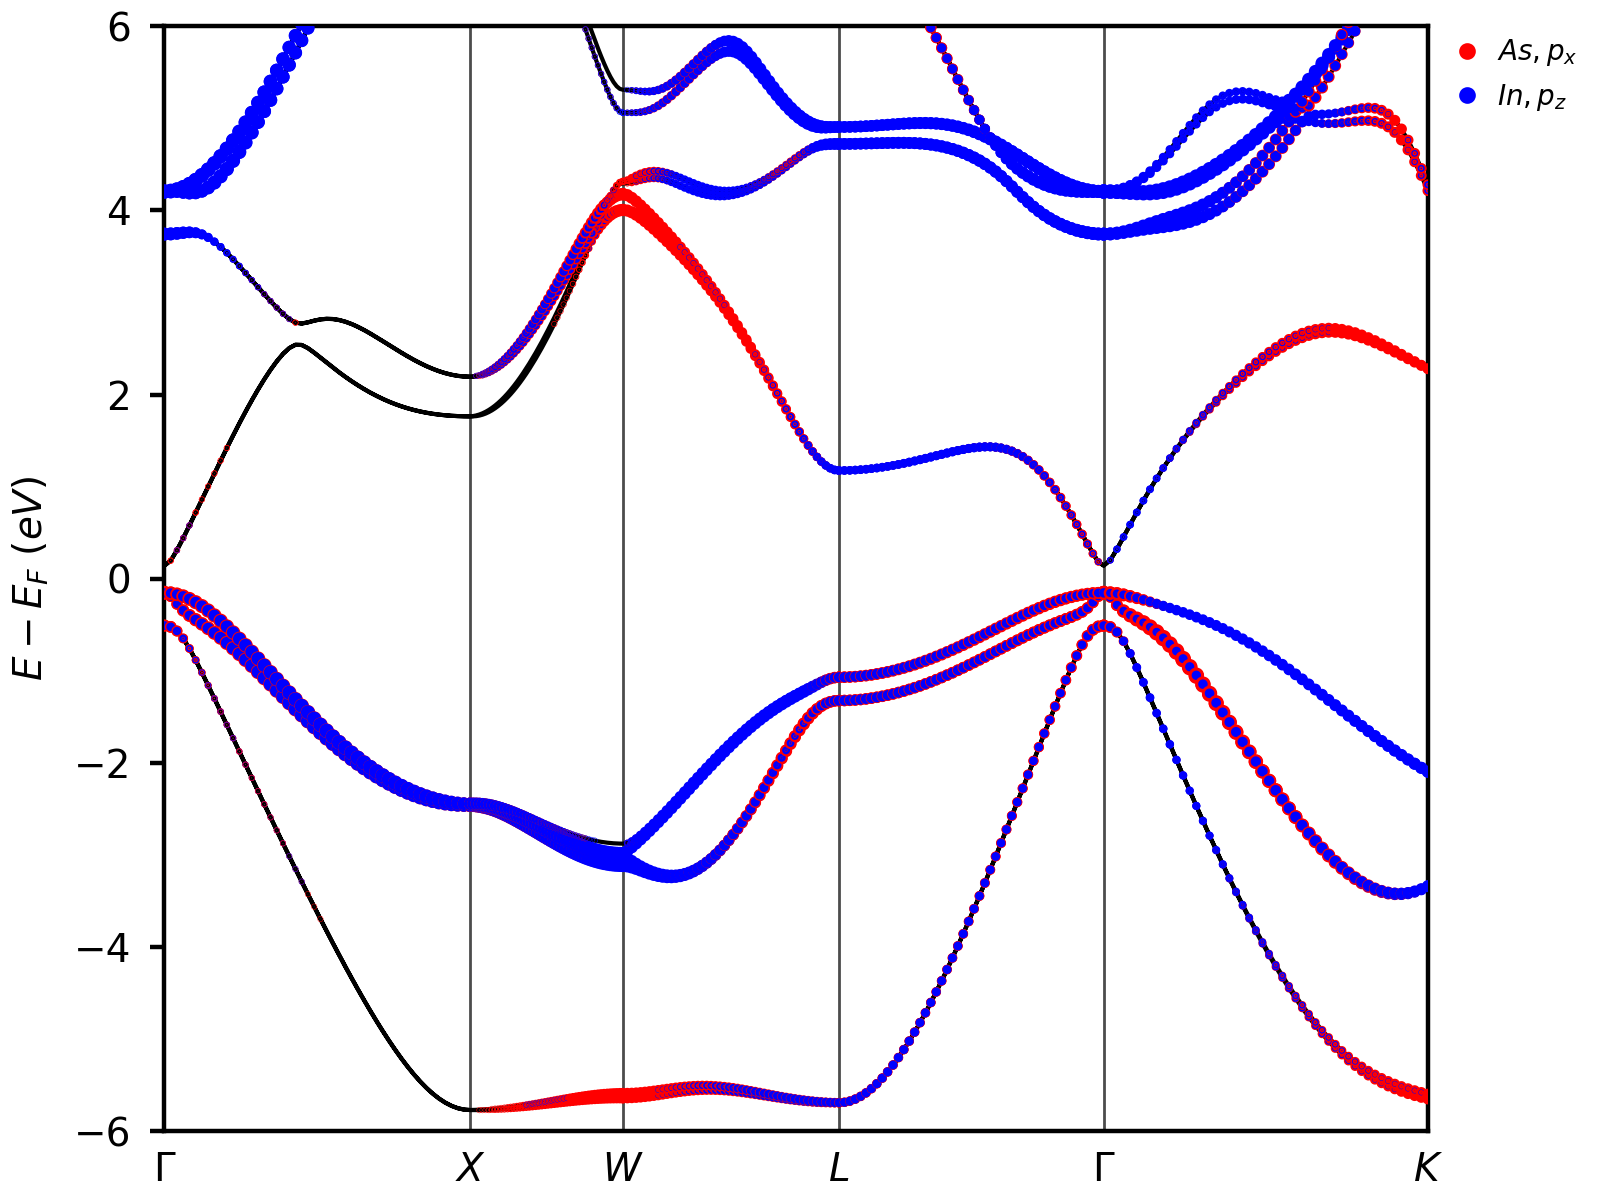
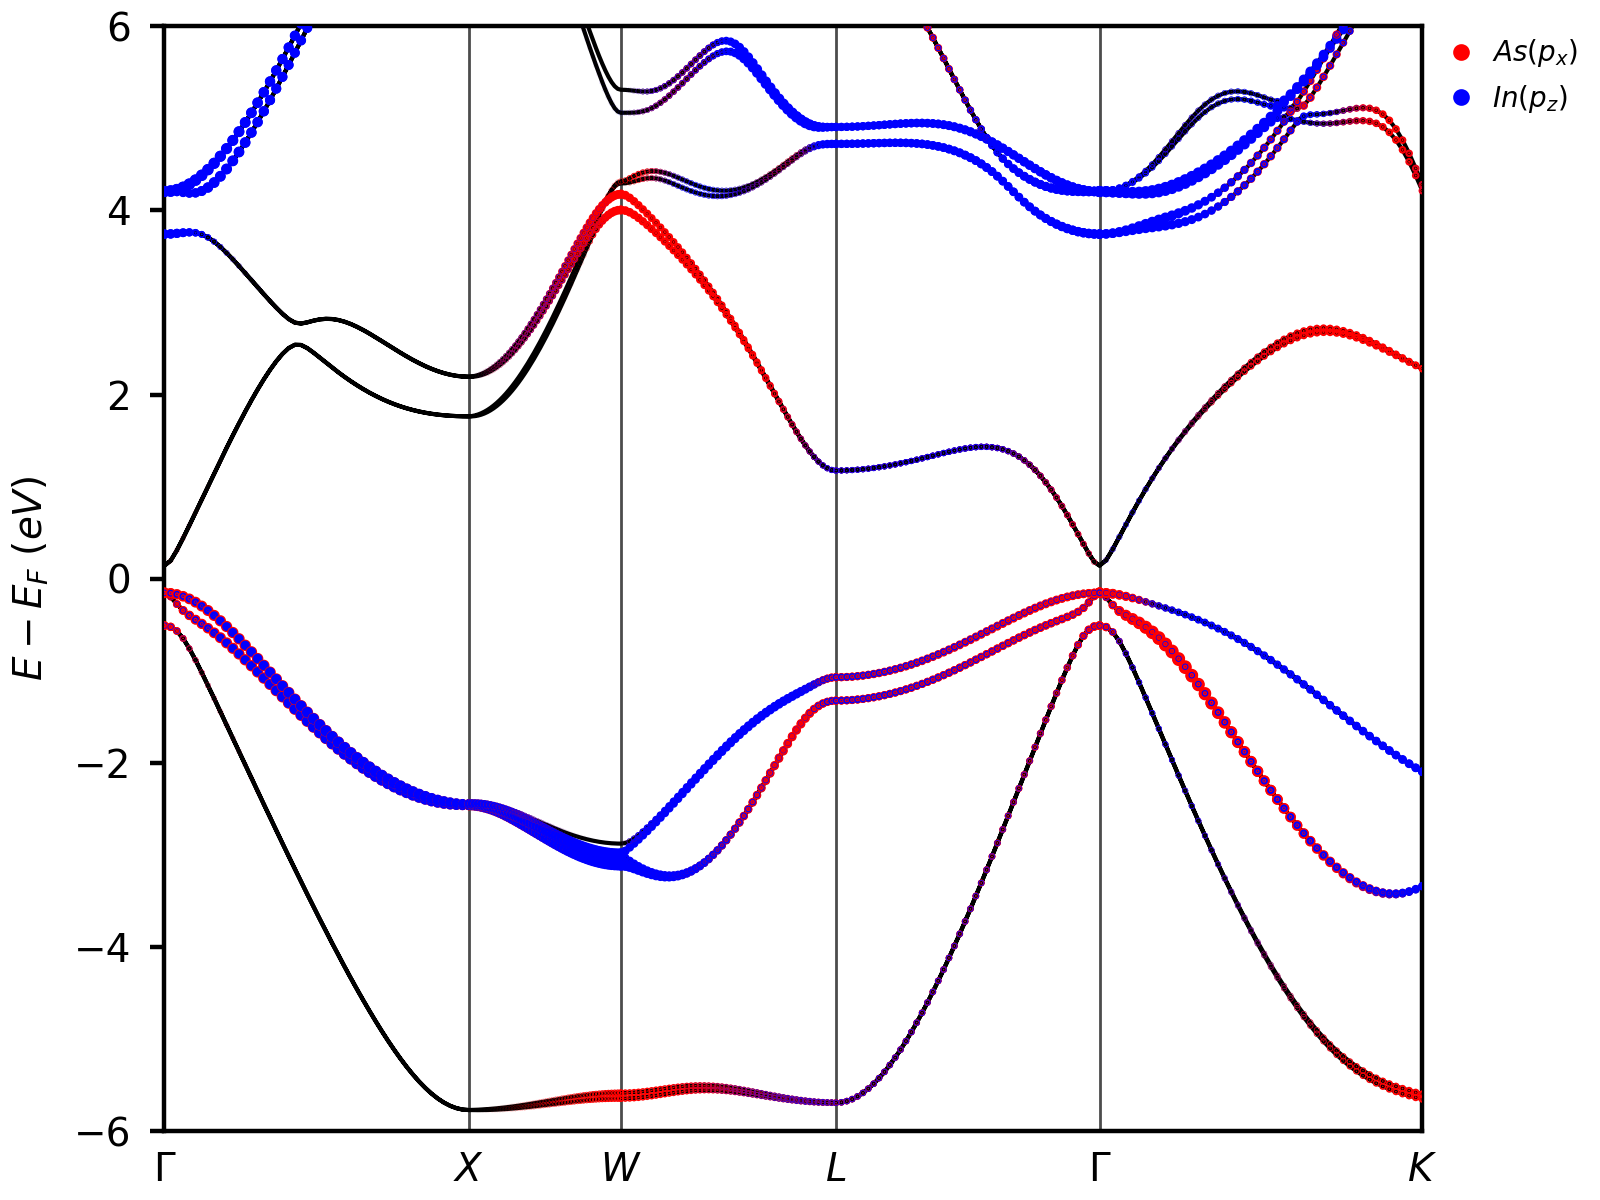
Fixed loading and saving bands for spin polarized calculations with only one atom

diff --git a/vaspvis/band.py b/vaspvis/band.py
@@ -82,6 +82,15 @@ class Band:
         else:
             self.lsorbit = False
 
+        if 'ISPIN' in self.incar:
+            if self.incar['ISPIN'] == 2:
+                self.ispin = True
+            else:
+                self.ispin = False
+        else:
+            self.ispin = False
+
+
         self.kpoints_file = Kpoints.from_file(os.path.join(folder, 'KPOINTS'))
 
         self.wavecar = os.path.join(folder, 'WAVECAR')
@@ -162,16 +171,32 @@ class Band:
                 the eigenvalues for each band
         """
 
-        spin = self.spin_dict[self.spin]
+        if self.spin == 'up':
+            spin = 0
+        if self.spin == 'down':
+            spin = 1
 
         if self.pre_loaded_bands:
             with open(os.path.join(self.folder, 'eigenvalues.npy'), 'rb') as eigenvals:
                 band_data = np.load(eigenvals)
 
-            eigenvalues = band_data[:,:,0]
-            kpoints = band_data[0,:,1:]
+            if self.ispin and not self.lsorbit:
+                eigenvalues = band_data[:,:,:2]
+                kpoints = band_data[0,:,2:]
+            else:
+                eigenvalues = band_data[:,:,0]
+                kpoints = band_data[0,:,1:]
         else:
-            eigenvalues = np.transpose(self.eigenval.eigenvalues[spin][:,:,0]) - self.efermi
+            if len(self.eigenval.eigenvalues.keys()) > 1:
+                eigenvalues_up = np.transpose(self.eigenval.eigenvalues[Spin.up][:,:,0]) - self.efermi
+                eigenvalues_down = np.transpose(self.eigenval.eigenvalues[Spin.down][:,:,0]) - self.efermi
+                eigenvalues = np.concatenate(
+                    [eigenvalues_up[:,:,np.newaxis], eigenvalues_down[:,:,np.newaxis]],
+                    axis=2
+                )
+            else:
+                eigenvalues = np.transpose(self.eigenval.eigenvalues[Spin.up][:,:,0]) - self.efermi
+
             kpoints = np.array(self.eigenval.kpoints)
 
             if self.hse:
@@ -180,12 +205,24 @@ class Band:
                 eigenvalues = eigenvalues[:,zero_weight]
                 kpoints = kpoints[zero_weight]
 
-            band_data = np.append(
-                eigenvalues[:,:,np.newaxis],
-                np.tile(kpoints, (eigenvalues.shape[0],1,1)),
-                axis=2,
-            )
+            if len(self.eigenval.eigenvalues.keys()) > 1:
+                band_data = np.append(
+                    eigenvalues,
+                    np.tile(kpoints, (eigenvalues.shape[0],1,1)),
+                    axis=2,
+                )
+            else:
+                band_data = np.append(
+                    eigenvalues[:,:,np.newaxis],
+                    np.tile(kpoints, (eigenvalues.shape[0],1,1)),
+                    axis=2,
+                )
+
             np.save(os.path.join(self.folder, 'eigenvalues.npy'), band_data)
+
+        if len(self.eigenval.eigenvalues.keys()) > 1:
+            eigenvalues = eigenvalues[:,:,spin]
+
 
         return eigenvalues, kpoints
 
@@ -248,12 +285,24 @@ class Band:
         else:
             parser = ProcarParser()
             parser.readFile(os.path.join(self.folder, 'PROCAR_repaired'))
-            projected_eigenvalues = np.transpose(parser.spd[:,:,spin,:-1, 1:-1], axes=(1,0,2,3))
-            projected_eigenvalues = projected_eigenvalues 
+            if self.ispin and not self.lsorbit and np.sum(self.poscar.natoms) == 1:
+                shape = int(parser.spd.shape[1] / 2)
+                projected_eigenvalues_up = np.transpose(parser.spd[:,:shape,0,:,1:-1], axes=(1,0,2,3))
+                projected_eigenvalues_down = np.transpose(parser.spd[:,shape:,0,:,1:-1], axes=(1,0,2,3))
+                projected_eigenvalues = np.concatenate(
+                    [projected_eigenvalues_up[:,:,:,:,np.newaxis], projected_eigenvalues_down[:,:,:,:,np.newaxis]],
+                    axis=4
+                )
+                projected_eigenvalues = np.transpose(projected_eigenvalues, axes=(0,1,4,2,3))
+            else:
+                projected_eigenvalues = np.transpose(parser.spd[:,:,:,:-1, 1:-1], axes=(1,0,2,3,4))
+
             np.save(os.path.join(self.folder, 'projected_eigenvalues.npy'), projected_eigenvalues)
 
+
+        projected_eigenvalues = projected_eigenvalues[:,:,spin,:,:]
+
         if self.hse:
-            print(projected_eigenvalues.shape)
             kpoint_weights = np.array(self.eigenval.kpoints_weights)
             zero_weight = np.where(kpoint_weights == 0)[0]
             projected_eigenvalues = projected_eigenvalues[:,zero_weight]

diff --git a/vaspvis/standard.py b/vaspvis/standard.py
@@ -968,7 +968,7 @@ def band_plain_spin_polarized(
     down_color='red',
     linewidth=1.25,
     up_linestyle='-',
-    down_linestyle='-',
+    down_linestyle=':',
     figsize=(4, 3),
     erange=[-6, 6],
     kpath=None,
@@ -5355,7 +5355,7 @@ def band_dos_plain_spin_polarized(
     down_color='red',
     linewidth=1.25,
     up_linestyle='-',
-    down_linestyle='--',
+    down_linestyle=':',
     figsize=(6, 3),
     width_ratios=[7, 3],
     erange=[-6, 6],
@@ -7610,10 +7610,15 @@ def dos_layers(
 
 
 def _main():
-    folder = '../../vaspvis_data/dos_InAs'
-    dos_spd(
-        folder=folder,
-    )
+    dos_folder = '../../vaspvis_data/Fe-sp/dos'
+    band_folder_sp = '../../vaspvis_data/Fe-sp/band'
+    band_folder = '../../vaspvis_data/band_InAs'
+    band_spd(folder=band_folder)
+    #  band_dos_spd_spin_polarized(
+        #  band_folder=band_folder_sp,
+        #  dos_folder=dos_folder,
+        #  display_order='all',
+    #  )
 
 
 if __name__ == "__main__":

diff --git a/img/example.py b/img/example.py
@@ -143,6 +143,16 @@ standard.dos_atom_orbitals(
     energyaxis='x',
 )
 
+# ==================================================
+# ---------- Atom SPD Dos Structure ------------
+# ==================================================
+
+standard.dos_atom_spd(
+    folder=dos_folder,
+    atom_spd_dict={0:'spd'},
+    energyaxis='x',
+)
+
 
 # ==================================================
 # ------------ Element Dos Structure --------------

diff --git a/setup.py b/setup.py
@@ -5,7 +5,7 @@ with open('./README.md', 'r') as fh:
 
 setup(
     name='vaspvis',
-    version='0.2.7',
+    version='0.2.8',
     description='A highly flexible and customizable library for visualizing electronic structure data from VASP calculations',
     long_description=long_description,
     long_description_content_type='text/markdown',

diff --git a/vaspvis/dos.py b/vaspvis/dos.py
@@ -136,7 +136,7 @@ class Dos:
         if self.spin == 'up':
             tdos = tdos[:,:2]
         elif self.spin == 'down':
-            tdos = tdos[:,1:3]
+            tdos = tdos[:,[0,2]]
             tdos[:,1] = -tdos[:,1]
         elif self.spin == 'both':
             tdos_up = tdos[:,1]

diff --git a/README.md b/README.md
@@ -166,6 +166,19 @@ standard.band_orbitals(
 
 <img src="./img/band_orbital.png"  width="650" height="450">
 
+### Atom Projected Band Structure
+
+```python
+from vaspvis import standard
+
+standard.band_atoms(
+    folder=band_folder,
+    atoms=[0, 1],
+)
+```
+
+<img src="./img/band_atoms.png"  width="650" height="450">
+
 ### Atom-Orbtial Projected Band Structure
 
 ```python
@@ -179,18 +192,18 @@ standard.band_atom_orbitals(
 
 <img src="./img/band_atom_orbitals.png"  width="650" height="450">
 
-### Atom Projected Band Structure
+### Atom s, p, d Projected Band Structure
 
 ```python
 from vaspvis import standard
 
-standard.band_atoms(
+standard.band_atom_spd(
     folder=band_folder,
-    atoms=[0, 1],
+    atom_spd_dict={0:'spd'},
 )
 ```
 
-<img src="./img/band_atoms.png"  width="650" height="450">
+<img src="./img/band_atom_spd.png"  width="650" height="450">
 
 ### Element Projected Band Structure
 
@@ -273,6 +286,20 @@ standard.dos_orbitals(
 
 <img src="./img/dos_orbitals.png"  width="650" height="450">
 
+### Atom Projected Density of States
+
+```python
+from vaspvis import standard
+
+standard.dos_atoms(
+    folder=dos_folder,
+    atoms=[0, 1],
+    energyaxis='x',
+)
+```
+
+<img src="./img/dos_atoms.png"  width="650" height="450">
+
 ### Atom-Orbtial Projected Density of States
 
 ```python
@@ -287,19 +314,19 @@ standard.dos_atom_orbital(
 
 <img src="./img/dos_atom_orbitals.png"  width="650" height="450">
 
-### Atom Projected Density of States
+### Atom s, p, d Projected Density of States
 
 ```python
 from vaspvis import standard
 
-standard.dos_atoms(
+standard.dos_atom_orbital(
     folder=dos_folder,
-    atoms=[0, 1],
+    atom_orbital_pairs=[[0,1], [0,3], [1, 1], [1,7]],
     energyaxis='x',
 )
 ```
 
-<img src="./img/dos_atoms.png"  width="650" height="450">
+<img src="./img/dos_atom_spd.png"  width="650" height="450">
 
 ### Element Projected Density of States
 
